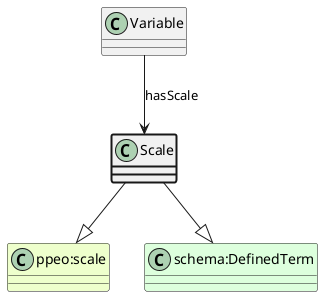
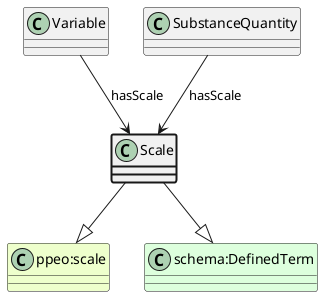
SubstanceQuantity

diff --git a/doc/appn_Treatment.md b/doc/appn_Treatment.md
@@ -1,7 +1,7 @@
 # Treatment
 [https://schema.plantphenomics.org.au/Treatment](https://schema.plantphenomics.org.au/Treatment)
 
-An Assay that adds a quantity of some BioChemEntity to a set of ObservationUnits (includes potting, fertigation, pesticide application, addition of beneficials, etc.).
+An Assay that adds a Substance or a SubstanceQuantity to an ObservationUnit (includes potting, fertigation, pesticide application, addition of beneficials, etc.).
 
 ![UML diagram for Treatment](/ttl_uml/ttl_appn_Treatment.png)
 
@@ -15,8 +15,10 @@ An Assay that adds a quantity of some BioChemEntity to a set of ObservationUnits
 ## Properties
 * appn:Treatment **appn:madeByController** [appn:Controller](/doc/appn_Controller.md)
     * Identifies the entity (Controller, i.e. one of a Person, Actuator, SoftwareApplication or ExternalEvent) responsible for carrying out a Control or Treatment.
-* appn:Treatment **appn:treats** [appn:TreatmentVariable](/doc/appn_TreatmentVariable.md)
-    * Identifies a TreatmentVariable associated with a Treatment assay. The Treatment makes an input of a quantity of some BioChemEntity associated with the TreatmentVariable. If the result is a known final state for a variable associated with an ObservationUnit, the assay should be modeled as a Control with a ControlledVariable. Treatments are for cases where no definite resulting value is recorded.
+* appn:Treatment **appn:treatsWith** [appn:Substance](/doc/appn_Substance.md)
+    * Identifies a Substance or a SubstanceQuantity associated with a Treatment assay. The Treatment makes an input of a quantity of some Substance associated with the SubstanceQuantity. If the result is a known final state for a variable associated with an ObservationUnit, the assay should be modeled as a Control with a ControlledVariable. Treatments are for cases where no definite resulting value is recorded.
+* appn:Treatment **appn:treatsWith** [appn:SubstanceQuantity](/doc/appn_SubstanceQuantity.md)
+    * Identifies a Substance or a SubstanceQuantity associated with a Treatment assay. The Treatment makes an input of a quantity of some Substance associated with the SubstanceQuantity. If the result is a known final state for a variable associated with an ObservationUnit, the assay should be modeled as a Control with a ControlledVariable. Treatments are for cases where no definite resulting value is recorded.
 * [appn:Assay](/doc/appn_Assay.md) **appn:isForObservationUnit** [appn:ObservationUnit](/doc/appn_ObservationUnit.md)
     * Relates an Assay to an ObservationUnit for which it is carried out. Note that when the Assay is an Observation, the model should infer a schema:observationAbout property from isForObservationUnit.
 * [appn:Assay](/doc/appn_Assay.md) **appn:usedMethod** [appn:Method](/doc/appn_Method.md)

diff --git a/doc/appn_SubstanceQuantity.md b/doc/appn_SubstanceQuantity.md
@@ -1,0 +1,30 @@
+# SubstanceQuantity
+[https://schema.plantphenomics.org.au/SubstanceQuantity](https://schema.plantphenomics.org.au/SubstanceQuantity)
+
+A Variable (representation of a quantity using a defined Scale) for a Substance applied to an ObservationUnit.
+
+![UML diagram for SubstanceQuantity](/ttl_uml/ttl_appn_SubstanceQuantity.png)
+
+## Superclasses
+* [https://schema.plantphenomics.org.au/Variable](/doc/appn_Variable.md)
+* https://www.w3.org/ns/sosa/Property
+* http://ddialliance.org/Specification/DDI-CDI/1.0/RDF/RepresentedVariable
+* https://schema.org/InstanceValue
+## Properties
+* [appn:Treatment](/doc/appn_Treatment.md) **appn:treatsWith** appn:SubstanceQuantity
+    * Identifies a Substance or a SubstanceQuantity associated with a Treatment assay. The Treatment makes an input of a quantity of some Substance associated with the SubstanceQuantity. If the result is a known final state for a variable associated with an ObservationUnit, the assay should be modeled as a Control with a ControlledVariable. Treatments are for cases where no definite resulting value is recorded.
+* appn:SubstanceQuantity **appn:isOfSubstance** [appn:Substance](/doc/appn_Substance.md)
+    * Identifies the Substance associated with a SubstanceQuantity. This represents the biological or chemical substance applied to the ObservationUnit by a Treatment.
+* appn:SubstanceQuantity **appn:amount** [appn:Substance](/doc/appn_Substance.md)
+    * Identifies the amount of a Substance associated with a SubstanceQuantity according to the associated Scale.
+* appn:SubstanceQuantity **appn:hasScale** [appn:Scale](/doc/appn_Scale.md)
+    * Identifies the Scale associated with a Variable.
+* SubstanceQuantity https://schema.plantphenomics.org.au/hasDefaultValue
+* [appn:Variable](/doc/appn_Variable.md) **appn:usedMethod** [appn:Method](/doc/appn_Method.md)
+    * Identifies a Method used to conduct an Assay.
+* [appn:Variable](/doc/appn_Variable.md) **appn:forBiologicalUnitType** [appn:BiologicalUnitType](/doc/appn_BiologicalUnitType.md)
+    * Links a Variable to the BiologicalUnitType to which it relates.
+* [appn:Variable](/doc/appn_Variable.md) **appn:forBiologicalMaterial** [appn:BiologicalMaterial](/doc/appn_BiologicalMaterial.md)
+    * Links a Variable to the BiologicalMaterial (i.e. crop) to which it relates.
+* [appn:Variable](/doc/appn_Variable.md) **appn:hasScale** [appn:Scale](/doc/appn_Scale.md)
+    * Identifies the Scale associated with a Variable.

diff --git a/doc/appn_Substance.md b/doc/appn_Substance.md
@@ -1,0 +1,16 @@
+# Substance
+[https://schema.plantphenomics.org.au/Substance](https://schema.plantphenomics.org.au/Substance)
+
+A biological or chemical entity used in a Treatment assay or referenced in a SubstanceQuantity.
+
+![UML diagram for Substance](/ttl_uml/ttl_appn_Substance.png)
+
+## Superclasses
+* https://bioschemas.org/Substance
+## Properties
+* [appn:Treatment](/doc/appn_Treatment.md) **appn:treatsWith** appn:Substance
+    * Identifies a Substance or a SubstanceQuantity associated with a Treatment assay. The Treatment makes an input of a quantity of some Substance associated with the SubstanceQuantity. If the result is a known final state for a variable associated with an ObservationUnit, the assay should be modeled as a Control with a ControlledVariable. Treatments are for cases where no definite resulting value is recorded.
+* [appn:SubstanceQuantity](/doc/appn_SubstanceQuantity.md) **appn:isOfSubstance** appn:Substance
+    * Identifies the Substance associated with a SubstanceQuantity. This represents the biological or chemical substance applied to the ObservationUnit by a Treatment.
+* [appn:SubstanceQuantity](/doc/appn_SubstanceQuantity.md) **appn:amount** appn:Substance
+    * Identifies the amount of a Substance associated with a SubstanceQuantity according to the associated Scale.

diff --git a/doc/appn_schema.md b/doc/appn_schema.md
@@ -2,7 +2,6 @@
 ## APPN Classes
 * [appn:Actuator](/doc/appn_Actuator.md)
 * [appn:Assay](/doc/appn_Assay.md)
-* [appn:BioChemEntity](/doc/appn_BioChemEntity.md)
 * [appn:BiologicalMaterial](/doc/appn_BiologicalMaterial.md)
 * [appn:BiologicalUnit](/doc/appn_BiologicalUnit.md)
 * [appn:BiologicalUnitType](/doc/appn_BiologicalUnitType.md)
@@ -32,8 +31,9 @@
 * [appn:SoftwareApplication](/doc/appn_SoftwareApplication.md)
 * [appn:SpatialLocation](/doc/appn_SpatialLocation.md)
 * [appn:Study](/doc/appn_Study.md)
+* [appn:Substance](/doc/appn_Substance.md)
+* [appn:SubstanceQuantity](/doc/appn_SubstanceQuantity.md)
 * [appn:Trait](/doc/appn_Trait.md)
 * [appn:Treatment](/doc/appn_Treatment.md)
-* [appn:TreatmentVariable](/doc/appn_TreatmentVariable.md)
 * [appn:Variable](/doc/appn_Variable.md)
 * [appn:XYZLocation](/doc/appn_XYZLocation.md)

diff --git a/doc/appn_Variable.md b/doc/appn_Variable.md
@@ -22,4 +22,4 @@ Representation of a Trait using a defined Scale. In the DDI-CDI Variable Cascade
 ## Subclasses
 * [https://schema.plantphenomics.org.au/ObservedVariable](/doc/appn_ObservedVariable.md)
 * [https://schema.plantphenomics.org.au/ControlledVariable](/doc/appn_ControlledVariable.md)
-* [https://schema.plantphenomics.org.au/TreatmentVariable](/doc/appn_TreatmentVariable.md)
+* [https://schema.plantphenomics.org.au/SubstanceQuantity](/doc/appn_SubstanceQuantity.md)

diff --git a/doc/appn_ControlledVariable.md b/doc/appn_ControlledVariable.md
@@ -1,7 +1,7 @@
 # ControlledVariable
 [https://schema.plantphenomics.org.au/ControlledVariable](https://schema.plantphenomics.org.au/ControlledVariable)
 
-A Variable (representation of a Trait using a defined Scale) controlled or modified for one or more ObservationUnits.
+A Variable (representation of a Trait using a defined Scale) controlled or modified for an ObservationUnit.
 
 ![UML diagram for ControlledVariable](/ttl_uml/ttl_appn_ControlledVariable.png)
 

diff --git a/doc/appn_ObservedVariable.md b/doc/appn_ObservedVariable.md
@@ -1,7 +1,7 @@
 # ObservedVariable
 [https://schema.plantphenomics.org.au/ObservedVariable](https://schema.plantphenomics.org.au/ObservedVariable)
 
-A Variable (representation of a Trait using a defined Scale) observed or measured for one or more ObservationUnits.
+A Variable (representation of a Trait using a defined Scale) observed or measured for an ObservationUnit.
 
 ![UML diagram for ObservedVariable](/ttl_uml/ttl_appn_ObservedVariable.png)
 

diff --git a/doc/appn_Observation.md b/doc/appn_Observation.md
@@ -1,7 +1,7 @@
 # Observation
 [https://schema.plantphenomics.org.au/Observation](https://schema.plantphenomics.org.au/Observation)
 
-An Assay that observes or measures properties of one or more ObservationUnits returning results as property values or images.
+An Assay that observes or measures properties of an ObservationUnit returning results as property values or images.
 
 ![UML diagram for Observation](/ttl_uml/ttl_appn_Observation.png)
 

diff --git a/doc/appn_Scale.md b/doc/appn_Scale.md
@@ -11,3 +11,5 @@ A system of units or representation format for values associated with a Variable
 ## Properties
 * [appn:Variable](/doc/appn_Variable.md) **appn:hasScale** appn:Scale
     * Identifies the Scale associated with a Variable.
+* [appn:SubstanceQuantity](/doc/appn_SubstanceQuantity.md) **appn:hasScale** appn:Scale
+    * Identifies the Scale associated with a Variable.

diff --git a/doc/appn_Control.md b/doc/appn_Control.md
@@ -1,7 +1,7 @@
 # Control
 [https://schema.plantphenomics.org.au/Control](https://schema.plantphenomics.org.au/Control)
 
-An Assay that modifies a property of one or more ObservationUnits.
+An Assay that modifies a property of an ObservationUnit.
 
 ![UML diagram for Control](/ttl_uml/ttl_appn_Control.png)
 
